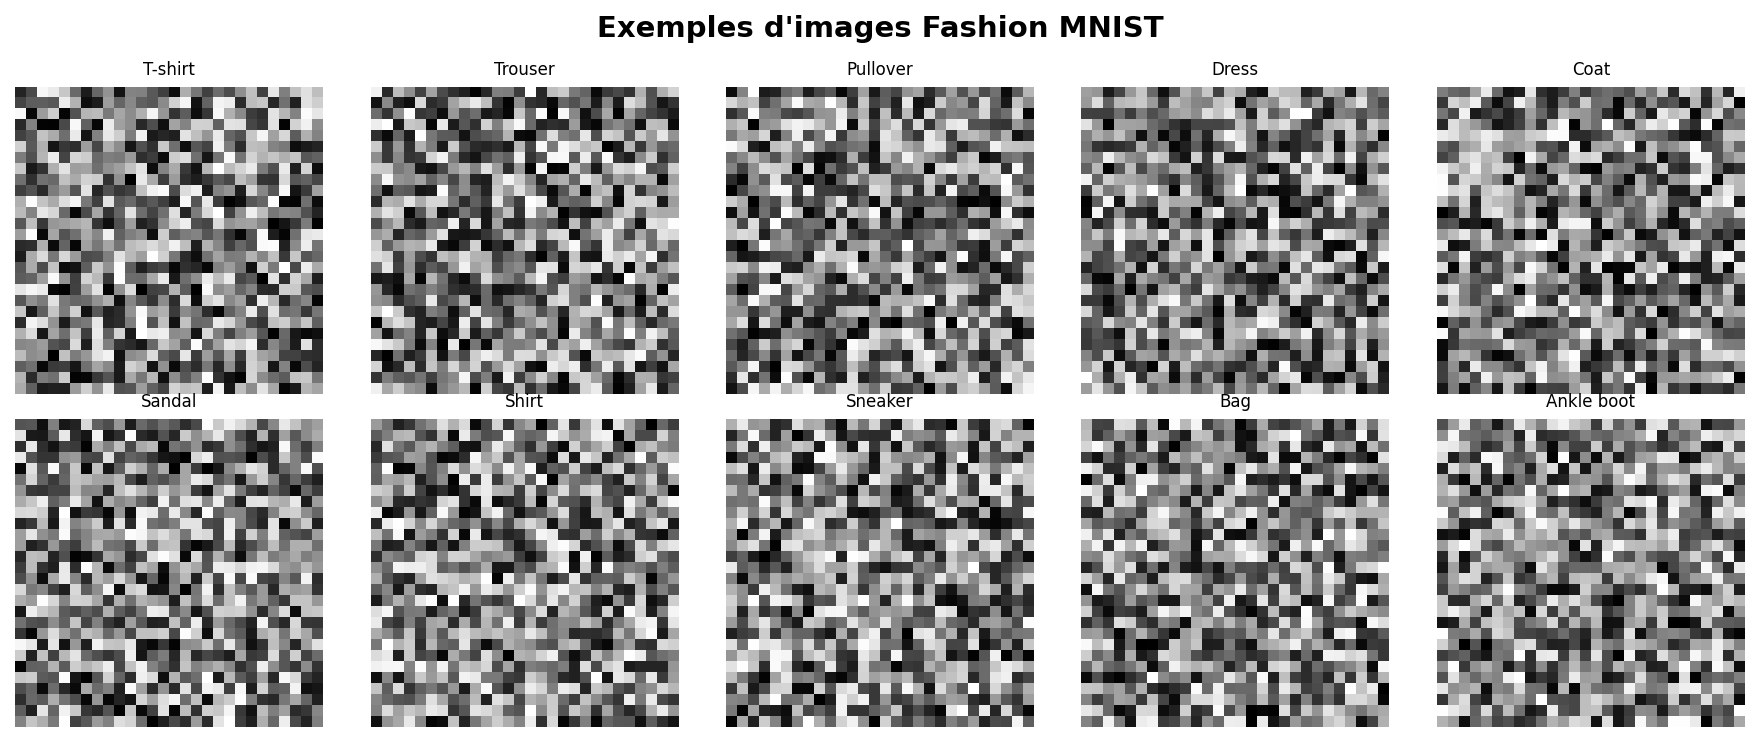
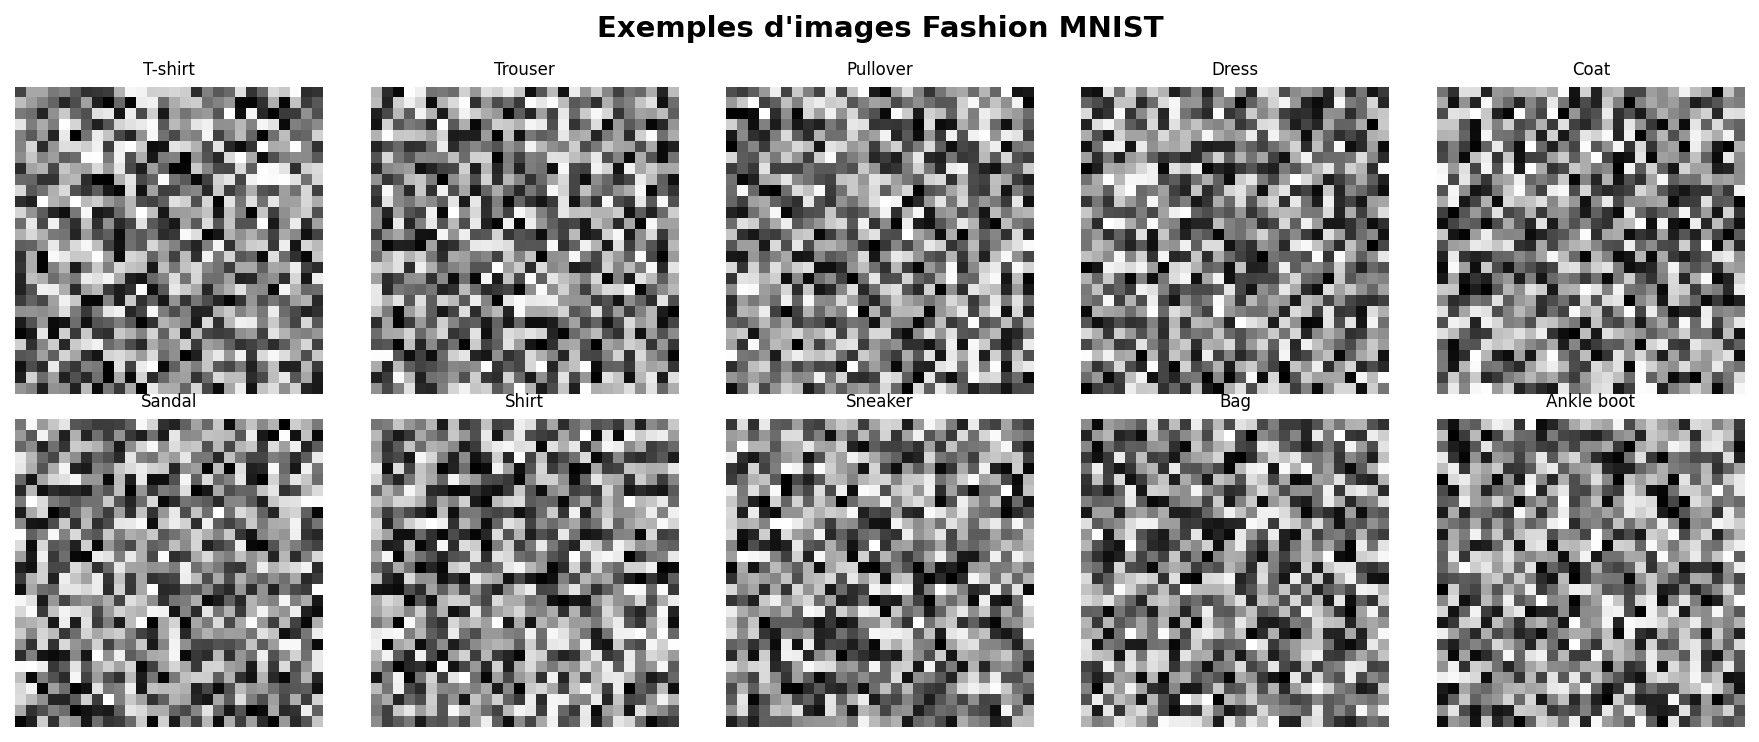
second commit: TP Deep Learning app

diff --git a/generate_report_pro.py b/generate_report_pro.py
@@ -390,8 +390,8 @@ Conformément aux consignes, le meilleur modèle (Random Forest) a été sauvega
 en utilisant les 10 variables les plus importantes. L'application permet des prédictions
 en temps réel et visualise les performances.
 """, normal))
-story.append(Paragraph("Lien vers le dépôt GitHub (à compléter) : "
-                      "https://github.com/votre-compte/deep-learning-tp", centered))
+story.append(Paragraph("Lien vers le dépôt GitHub :https://github.com/mdflorian237/TP-Deep-Learning.git "
+                      "https://maffouodongmofloriantpdeeplearning1ensy.streamlit.app/", centered))
 story.append(PageBreak())
 
 # --- Conclusion ---